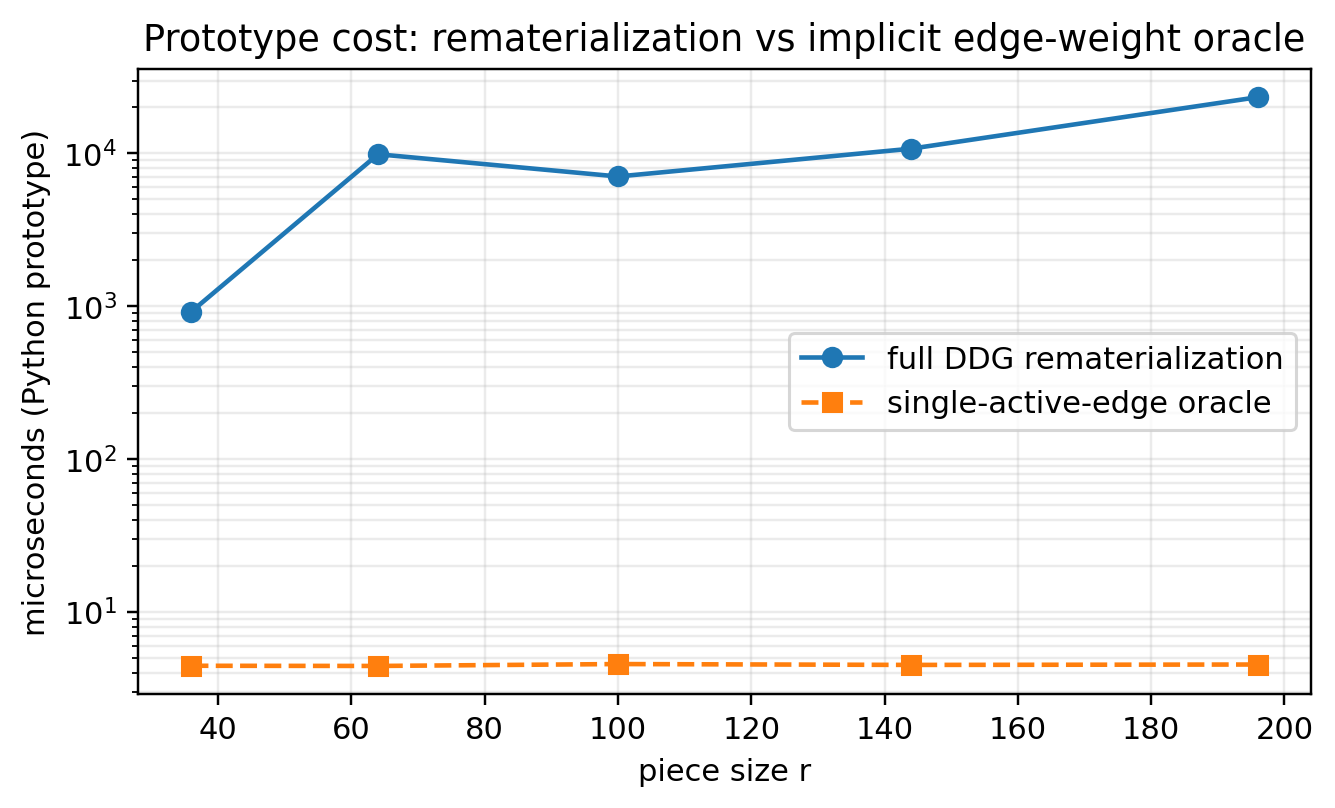
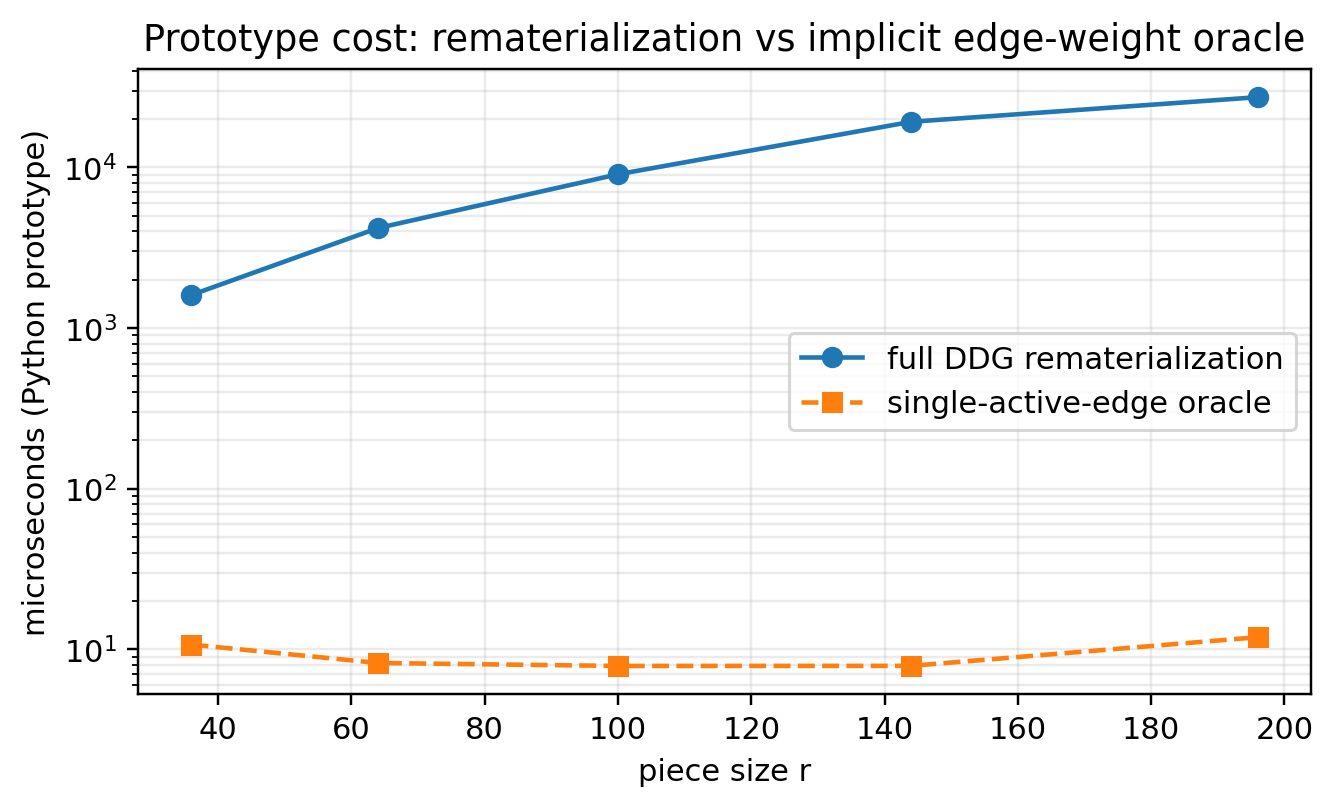
Record verified quick reproduction outputs

diff --git a/REPRODUCIBILITY_REPORT.md b/REPRODUCIBILITY_REPORT.md
@@ -1,0 +1,35 @@
+# Reproducibility Report
+
+Status: **PASS**
+
+## Reproduced manuscript counts
+
+- Sequential updates: 240
+- Sequential eligible slack rows: 3445
+- 60-graph stress rows: 6912
+- 400-graph stress rows: 26897
+- Original/pre-exact total: 37254
+- Exact eligible slack rows: 6870
+- **Grand total: 44124**
+- Exact support-check instances: 256
+- Exact support failures: 0
+- Exact interval failures: 0
+- Adversarial mutation/annealing evaluations: 405
+- Exact AEK queries/failures: 810/0
+- Interval-patch construction instances: 30 (k=3..32)
+
+The reported 44,124-row count reproduces exactly. Timings were rerun but are explicitly environment-dependent and are not compared byte-for-byte. Finite checks complement; they do not replace, the manuscript proofs.
+
+## Environment
+
+```json
+{
+  "python": "3.11.9",
+  "platform": "Windows-10-10.0.26200-SP0",
+  "networkx": "3.6.1",
+  "numpy": "1.26.4",
+  "scipy": "1.11.1",
+  "matplotlib": "3.10.8",
+  "pandas": "2.3.3"
+}
+```
